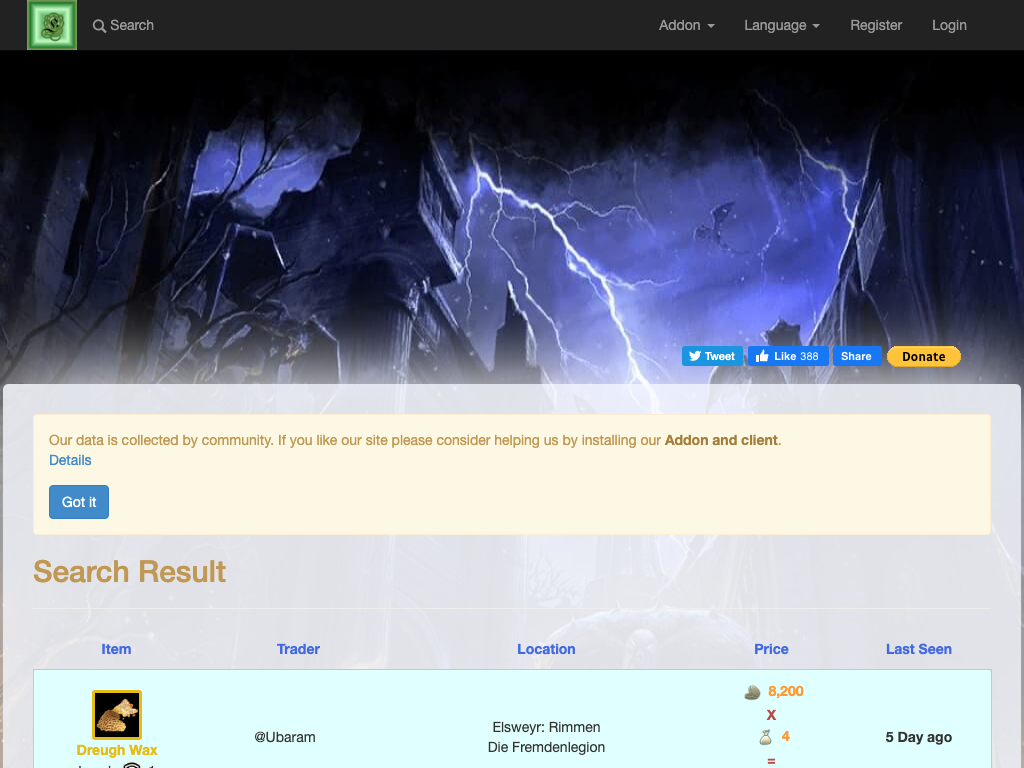
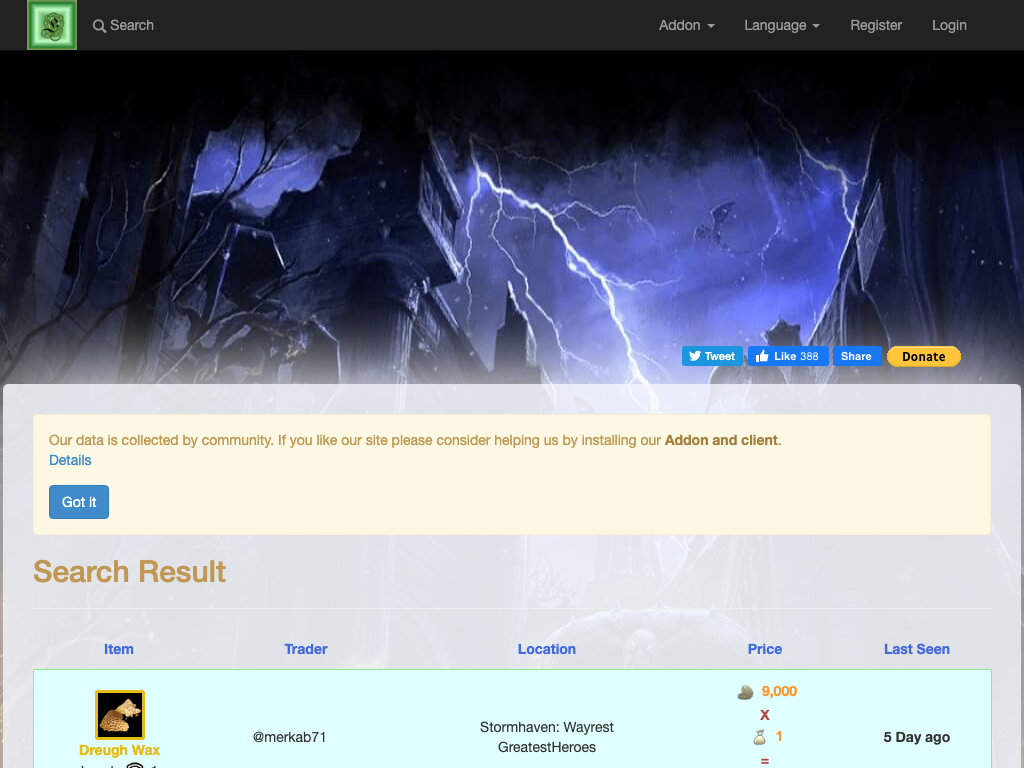
Crawler :: asyncronium fix

diff --git a/classes/crawler.js b/classes/crawler.js
@@ -147,3 +147,68 @@ async function crawl( searchURL ) {
 }
 
 module.exports = Crawler;
+
+
+module.exports.crawlItem  = async(searchURL) => {
+   
+    const tableSelector = '.trade-list-table';
+    const cursorSelector = '.cursor-pointer';
+    const firstChildSelector = 'td:first-child';
+    const tableDecSelector = 'td';
+
+    const browser = await puppeteer.launch();
+    const page = await browser.newPage();
+    await page.setViewport({
+        width: 1024,
+        height: 768,
+        deviceScaleFactor: 1,
+      });
+    await page.goto(searchURL, { waitUntil : 'networkidle0' });
+            
+    console.log('Page Loaded  :: ' + searchURL);
+
+    await page.screenshot({ path: 'test.png' });
+    console.log('Getting Items .....');
+
+    await page.waitFor(tableSelector);
+    const items = await page.evaluate(( tableSelector, cursorSelector, firstChildSelector, tableDecSelector  ) => {
+
+
+        const tableWrapper = document.querySelector( tableSelector );
+
+        const itemRows = tableWrapper.querySelectorAll( cursorSelector );
+
+           
+        const itemJsons = Object.values(itemRows).map( (el) => {
+
+            if(el.querySelector( firstChildSelector ) !== null) {
+                const tds = el.querySelectorAll( tableDecSelector );
+            
+                const name = tds[0].innerText;
+                const trader = tds[1].innerText;
+                const location  = tds[2].innerText;
+                const price  = tds[3].innerText;
+                const seen  = tds[4].innerText;
+
+                return { name: name, trader: trader, location: location, price : price, seen: seen };
+            }
+
+            });
+
+        return itemJsons;
+    }, tableSelector, cursorSelector, firstChildSelector, tableDecSelector );
+
+    console.log('Filtering Items .....');
+    const filteredItems = items.filter( (el) => {
+        return typeof(el) !== 'undefined'
+    });
+
+    //Close browser
+    await browser.close();
+
+    console.log('Finish .....');
+    return filteredItems;
+
+
+}
+

diff --git a/controllers/filter.js b/controllers/filter.js
@@ -1,15 +1,23 @@
 const Crawler =  require( '../classes/crawler');
+const {crawlItem } =  require( '../classes/crawler');
 
 module.exports.filterMoney =  function(req, res) {  
 
             const crawler = new Crawler('Dreugh Wax', 'asc' , 'LastSeen');
 
             const urlString = crawler.getSearchURL();
-            const data = crawler.crawlData();
+            const crawlExec = crawlItem( urlString )
+                        .then( (data) => {
+                            payload = { status : 200 , content: { url : urlString , data : data} };
+                            res.status(200)
+                            res.json(payload);
+                        } )
+                        .catch ( (err) => {
 
-            payload = { status : 200 , content: { url : urlString , data : data} };
-            res.status(500)
-            res.json(payload);
+                            payload = { status : 200 , content: { url : urlString , err : err} };
+                            res.status(500)
+                            res.json(payload);
+                        } );
 
 
 }
